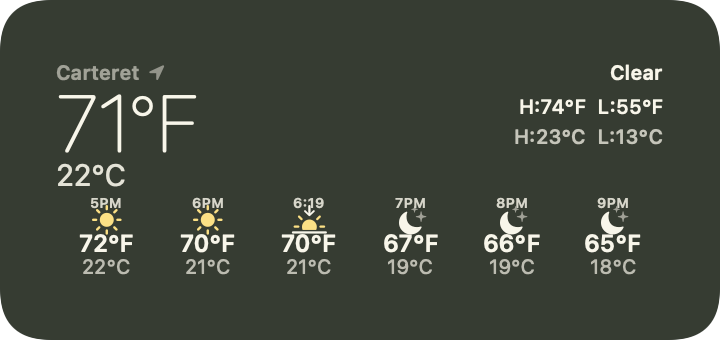
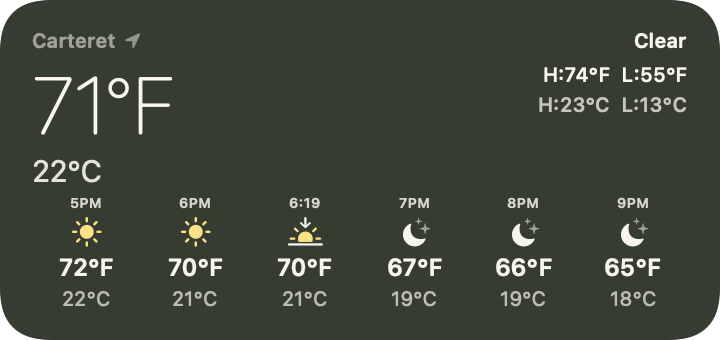
Match the medium widget inset to the other sizes and separate the overlapping type.

diff --git a/Sources/Shared/WeatherCard.swift b/Sources/Shared/WeatherCard.swift
@@ -45,7 +45,7 @@ struct WeatherCard: View {
     }
 
     private var medium: some View {
-        VStack(alignment: .leading, spacing: compact ? 0 : 16) {
+        VStack(alignment: .leading, spacing: compact ? 2 : 16) {
             header
             hourlyRow(maxItems: 6)
         }
@@ -63,7 +63,7 @@ struct WeatherCard: View {
 
     private var header: some View {
         HStack(alignment: .top, spacing: 12) {
-            VStack(alignment: .leading, spacing: isCompactMedium ? -6 : (compact ? 2 : 4)) {
+            VStack(alignment: .leading, spacing: isCompactMedium ? 1 : (compact ? 2 : 4)) {
                 placeRow
                 Text("\(WeatherSnapshot.format(snapshot.fahrenheit))°F")
                     .font(.system(size: compact ? 40 : 60, weight: .thin, design: .rounded))
@@ -114,17 +114,17 @@ struct WeatherCard: View {
     }
 
     private func hourlyRow(maxItems: Int) -> some View {
-        let dense = isCompactMedium
+        let gap: CGFloat = isCompactMedium ? 2 : (compact ? 4 : 6)
         return HStack(alignment: .top, spacing: 0) {
             ForEach(snapshot.hourly.prefix(maxItems)) { hour in
-                VStack(spacing: dense ? -2 : (compact ? 4 : 6)) {
+                VStack(spacing: gap) {
                     Text(hour.label)
                         .font(.system(size: compact ? 10 : 13, weight: .semibold))
                         .opacity(0.8)
                         .lineLimit(1)
                         .minimumScaleFactor(0.7)
                     conditionIcon(icon(for: hour), pointSize: compact ? 14 : 18)
-                        .frame(height: dense ? 12 : (compact ? 16 : 22))
+                        .frame(height: compact ? 16 : 22)
                     Text("\(WeatherSnapshot.format(hour.fahrenheit))°F")
                         .font(.system(size: compact ? 12 : 16, weight: .semibold))
                     Text("\(WeatherSnapshot.format(hour.celsius))°C")

diff --git a/Sources/Widget/WeatherCFWidget.swift b/Sources/Widget/WeatherCFWidget.swift
@@ -114,20 +114,11 @@ struct WeatherWidgetView: View {
         } else if family == .accessoryRectangular {
             accessoryRectangular
         } else {
-            card.padding(contentPadding)
+            card.padding(16)
         }
         #else
-        card.padding(contentPadding)
+        card.padding(16)
         #endif
-    }
-
-    /// The medium card is half as tall as the large one, so the same reading
-    /// needs a larger inset or it sits closer to the rim than the other sizes.
-    private var contentPadding: EdgeInsets {
-        if family == .systemMedium {
-            return EdgeInsets(top: 36, leading: 28, bottom: 36, trailing: 28)
-        }
-        return EdgeInsets(top: 16, leading: 16, bottom: 16, trailing: 16)
     }
 
     @ViewBuilder
